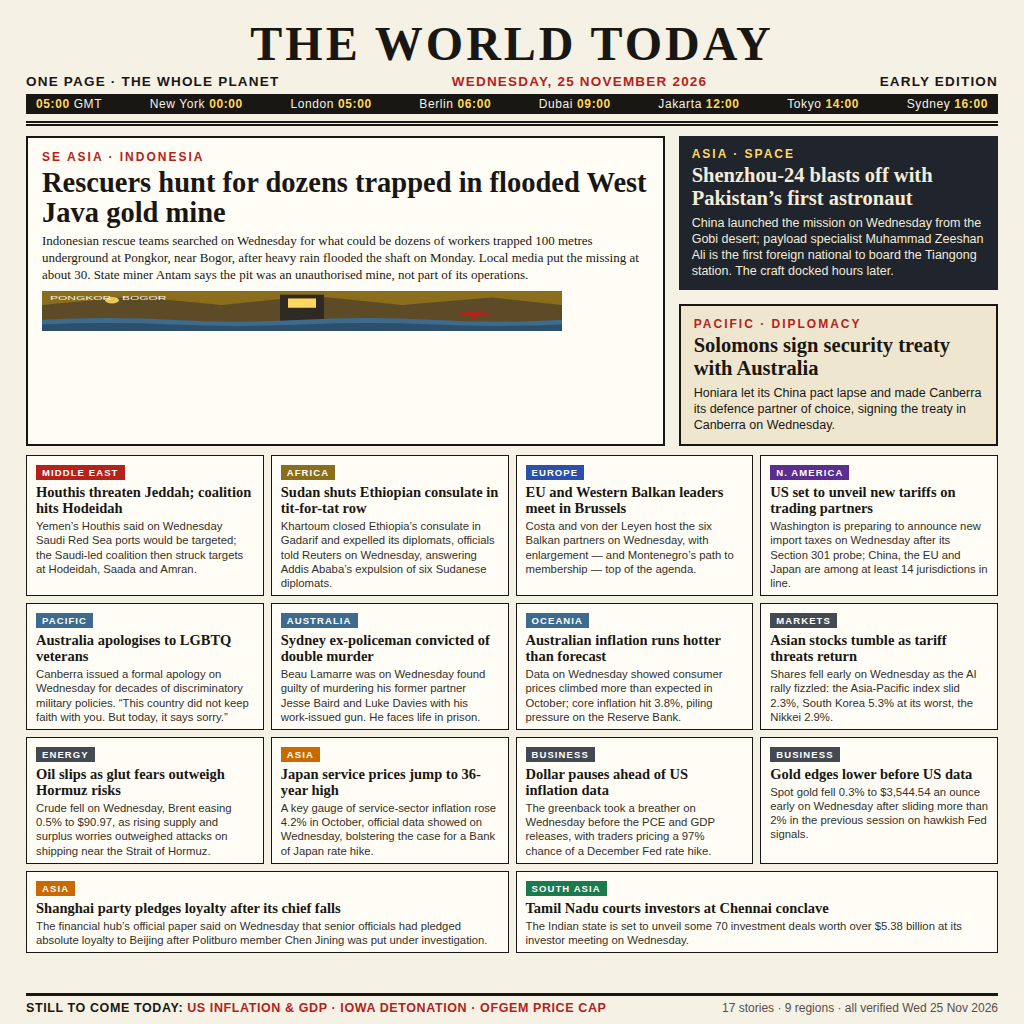
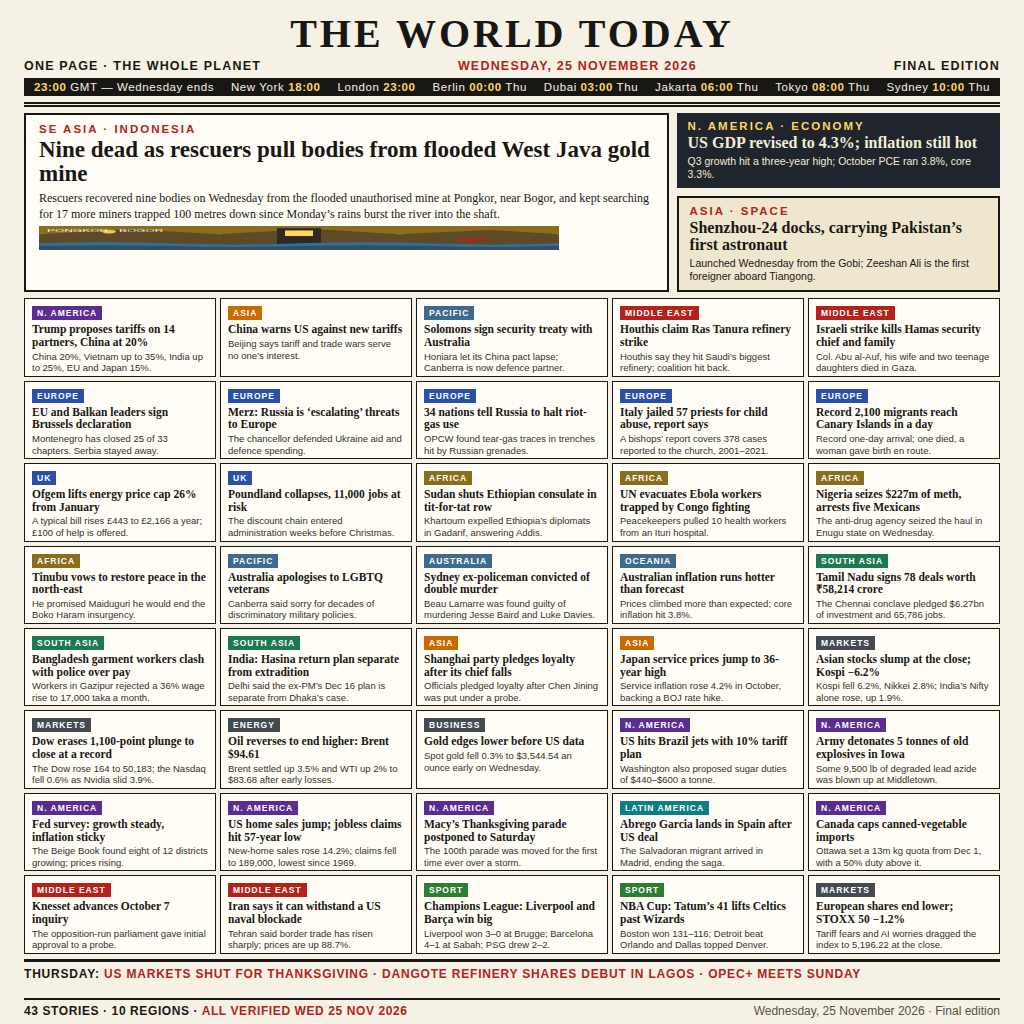
Final edition — Wednesday 25 November 2026 (43 verified stories, 10 regions)

diff --git a/README.md b/README.md
@@ -6,7 +6,7 @@
 
 A one-image front page summing up the world news of Wednesday 25 November 2026, built for the make.fun bounty [news-image-20261125](https://make.fun/bounty/news-image-20261125).
 
-Every story on the poster was verified against the text of its source article: a story only appears if the article itself shows the event or development happened on 25 November 2026. Feed and aggregator timestamps were never trusted — that mistake sank an earlier edition's first draft.
+Every story on the poster was verified against the text of its source article: a story only appears if the article itself shows the event or development happened on 25 November 2026. Feed and aggregator timestamps were never trusted — that mistake sank an earlier edition's first draft. The v1 audit and the final-edition audit are kept in the dev folder (`audit-v1.md`, including the v2 section).
 
 ## Run
 
@@ -19,23 +19,27 @@ Run it twice and the bytes are identical.
 ## Files
 
 - `main.ts` — the entry program
-- `entry.png` — the poster, 1024×1024, 260,024 bytes
+- `entry.png` — the poster, 1024×1024, 306,982 bytes
 - `LICENSE` — MIT, from the competition kit
 
-## On the poster (17 stories, 9 regions)
+## On the poster (43 stories, 10 regions)
 
-Lead: rescuers hunt for dozens trapped in a flooded West Java gold mine at Pongkor, Bogor. Also on the front page:
+Lead: nine dead as rescuers pull bodies from a flooded unauthorised gold mine at Pongkor, Bogor, with 17 miners still trapped. Also on the front page:
 
-- Shenzhou-24 launches, carrying Pakistan's first astronaut to the Tiangong station
-- Solomon Islands signs a security treaty with Australia in Canberra
-- Houthis threaten Jeddah; Saudi-led coalition strikes Hodeidah
-- Sudan shuts the Ethiopian consulate in a tit-for-tat expulsion row
-- EU and Western Balkan leaders meet in Brussels
-- US set to unveil new tariffs on trading partners
-- Australia apologises to LGBTQ veterans; a Sydney ex-policeman is convicted of double murder
-- Australian inflation comes in hotter than forecast; Asian stocks tumble; oil slips
-- Japan service-sector prices jump to a 36-year high; the dollar pauses; gold edges lower
-- Shanghai's party leadership pledges loyalty after its chief falls
-- Tamil Nadu courts investors at its Chennai conclave
+- US economy roars: Q3 GDP revised to 4.3%, October PCE inflation 3.8%; Trump proposes new tariffs on 14 trading partners, China at 20%
+- Shenzhou-24 docks, carrying Pakistan's first astronaut to the Tiangong station
+- Solomon Islands signs a security treaty with Australia; Houthis claim a strike on the Ras Tanura refinery; an Israeli strike kills a Hamas security chief and his family
+- EU and Western Balkan leaders sign the Brussels declaration; Merz says Russia is "escalating" threats; 34 nations tell Russia to halt riot-gas use
+- Italy jailed 57 priests for child abuse, a church report says; a record 2,100 migrants reach the Canary Islands in a day
+- Ofgem lifts the UK energy price cap 26% from January; Poundland collapses, 11,000 jobs at risk
+- Sudan shuts the Ethiopian consulate; UN evacuates Ebola workers trapped by fighting in Congo; Nigeria seizes $227m of meth; Tinubu vows to restore peace in the north-east
+- Australia apologises to LGBTQ veterans; a Sydney ex-policeman is convicted of double murder; Australian inflation runs hotter than forecast
+- Tamil Nadu signs 78 investment deals worth ₹58,214 crore; Bangladesh garment workers clash with police over pay; India says Hasina's return plan is separate from extradition
+- Shanghai's party pledges loyalty after its chief falls; Japan service prices jump to a 36-year high
+- Asian stocks slump at the close (Kospi −6.2%); the Dow erases a 1,100-point plunge to close at a record; oil reverses to end higher (Brent $94.61); gold edges lower
+- US hits Brazilian jets with a 10% tariff plan; the Army detonates 5 tonnes of old explosives in Iowa; the Fed's Beige Book finds growth steady and inflation sticky; US home sales jump and jobless claims hit a 57-year low
+- Macy's Thanksgiving parade is postponed to Saturday; Abrego Garcia lands in Spain; Canada caps canned-vegetable imports
+- The Knesset advances an October 7 inquiry; Iran says it can withstand a US naval blockade
+- Champions League: Liverpool and Barça win big; NBA Cup: Tatum's 41 lifts the Celtics; European shares end lower (STOXX 50 −1.2%)
 
-A "still to come today" strip previews Wednesday's US PCE/GDP data, the Iowa lead-azide detonation and Ofgem's price-cap announcement. This is the v1 edition, built mid-day Wednesday; a denser final edition follows once 25 November has ended in every time zone.
+A closing strip looks ahead to Thursday: US markets shut for Thanksgiving, Dangote refinery shares debut in Lagos, OPEC+ meets Sunday. This is the final edition, built after 25 November had ended in every time zone; it supersedes the v1 early edition (17 stories).
